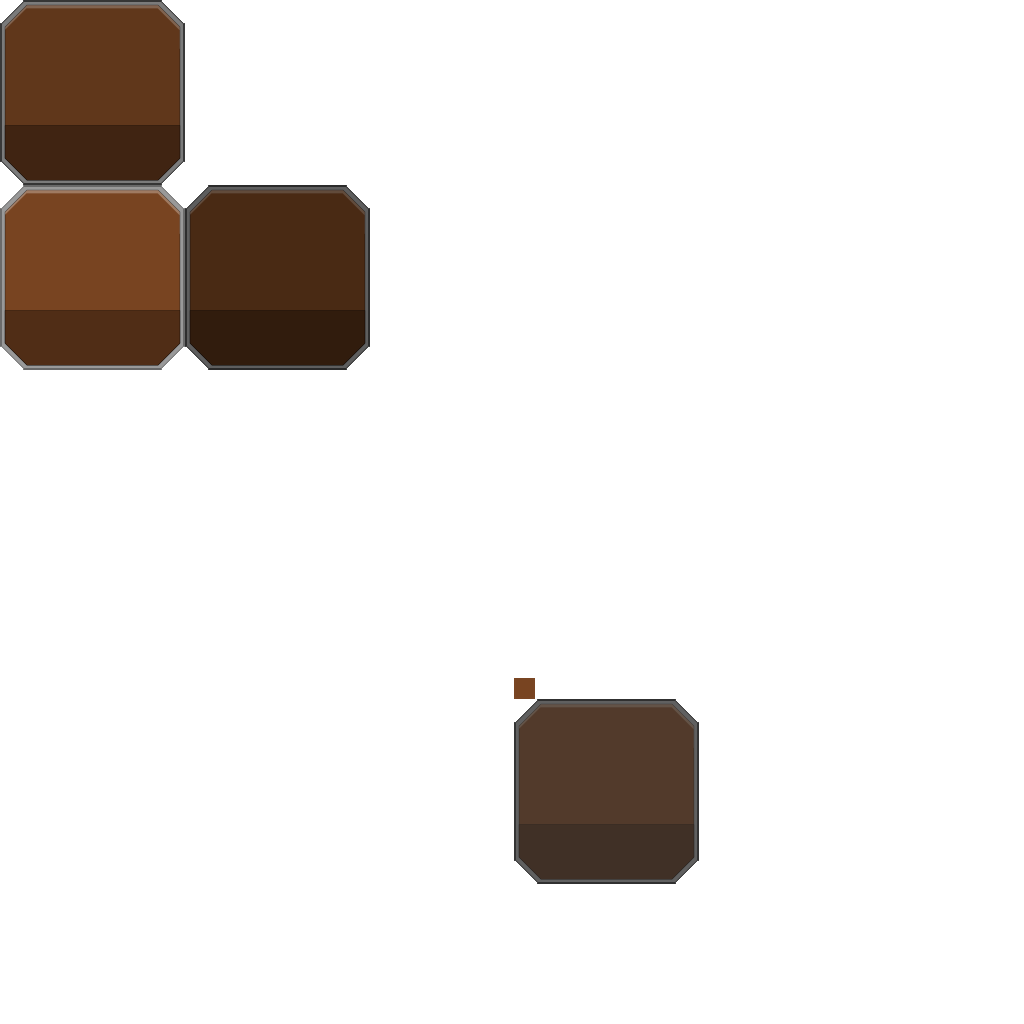
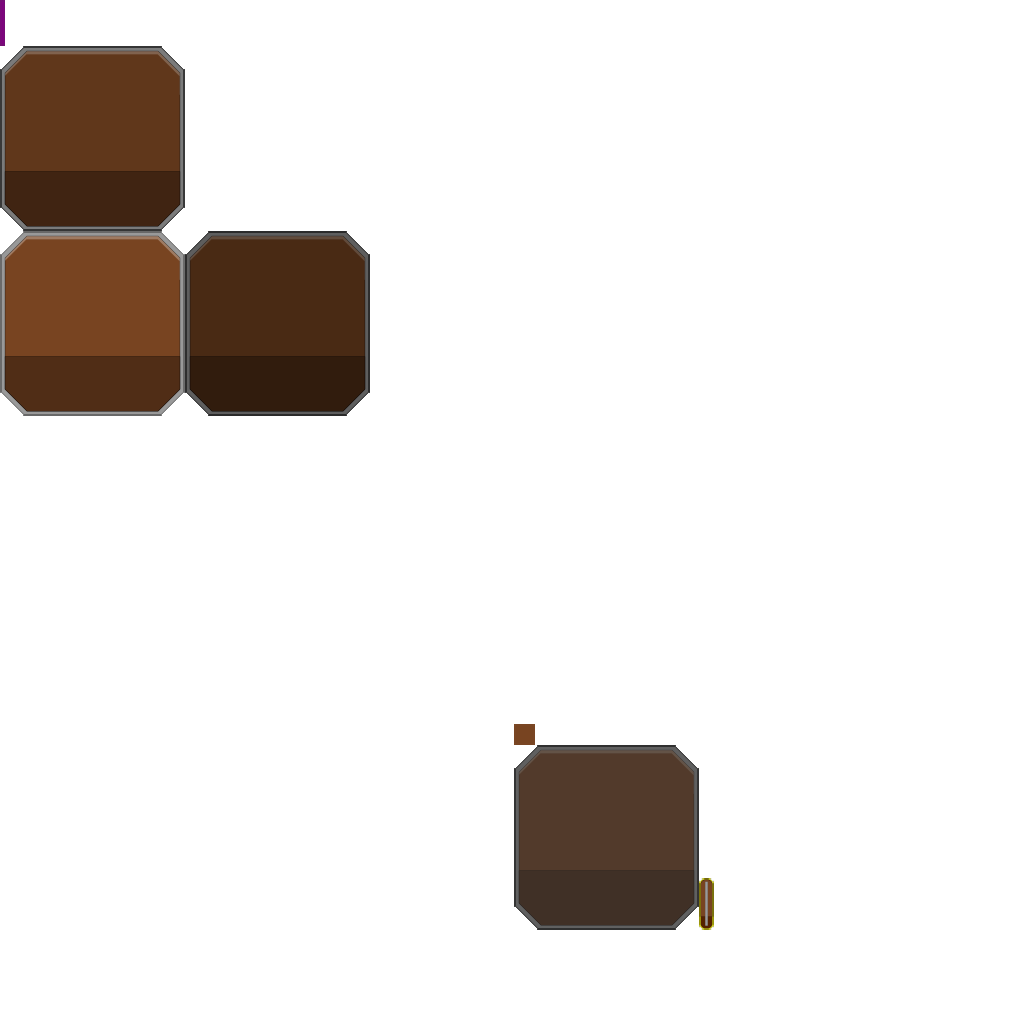
changed manabar skin and made his height adjustable

diff --git a/core/src/main/java/com/strategy_bit/chaos_brawl/player_input_output/views/GameHUD.java b/core/src/main/java/com/strategy_bit/chaos_brawl/player_input_output/views/GameHUD.java
@@ -12,11 +12,9 @@ import com.badlogic.gdx.graphics.g2d.TextureRegion;
 import com.badlogic.gdx.math.Vector2;
 import com.badlogic.gdx.math.Vector3;
 import com.badlogic.gdx.scenes.scene2d.InputEvent;
-import com.badlogic.gdx.scenes.scene2d.ui.ProgressBar;
 import com.badlogic.gdx.scenes.scene2d.ui.Table;
 import com.badlogic.gdx.scenes.scene2d.utils.ClickListener;
 import com.badlogic.gdx.scenes.scene2d.utils.Drawable;
-import com.badlogic.gdx.scenes.scene2d.utils.NinePatchDrawable;
 import com.badlogic.gdx.scenes.scene2d.utils.TextureRegionDrawable;
 import com.badlogic.gdx.utils.Array;
 import com.strategy_bit.chaos_brawl.config.WorldSettings;
@@ -60,7 +58,7 @@ public class GameHUD extends Table {
 
     private int nextUnitType;
     private Texture nonSpawnAreaTexture;
-    private ProgressBar manaBar;
+    private Manabar manaBar;
     private Array<BrawlButton> brawlButtons;
 
     private OrthographicCamera camera;
@@ -98,43 +96,39 @@ public class GameHUD extends Table {
         brawlButtons.add(btnUpgradeTower);
         setFillParent(true);
 
-        NinePatchDrawable resourceBarOuter = new NinePatchDrawable(assetManager.resourceSkinOuter);
-        NinePatchDrawable resourceBar = new NinePatchDrawable(assetManager.resourceSkinInner);
-        ProgressBar.ProgressBarStyle progressBarStyle = new ProgressBar.ProgressBarStyle(resourceBarOuter, new NinePatchDrawable(assetManager.resourceSkinMiddle));
-        progressBarStyle.knobBefore = resourceBar;
-        manaBar = new ProgressBar(0f, 100f, 0.1f, false, progressBarStyle);
-
+        manaBar = new Manabar(0f, 100f, 0.1f, false, AssetManager.getInstance().defaultSkin);
         manaBar.setValue(0);
         setBackground((Drawable) null);
 
         top();
         //add actors to UI
-        float height = Gdx.graphics.getHeight() / 8.5f;
-        float width = Gdx.graphics.getWidth()/5f;
-        add(manaBar).top().width(Gdx.graphics.getWidth() / 2f).height(Gdx.graphics.getHeight() / 9f);
-        row().height(7 * Gdx.graphics.getHeight() / 9f);
+        float buttonHeight = Gdx.graphics.getHeight() /7f;
+        float manaBarHeight = Gdx.graphics.getHeight() /8f;
+        float emptySpace = Gdx.graphics.getHeight() - (buttonHeight + manaBarHeight);
+
+        add(manaBar).top().width(Gdx.graphics.getWidth() / 2f).height(manaBarHeight);
+        row().height(emptySpace);
         add();
-        row().height(Gdx.graphics.getHeight() / 9f).width((float) Gdx.graphics.getWidth());
+        row().height(buttonHeight).width((float) Gdx.graphics.getWidth());
 
         // add own table for organizing buttons
         Table lowerUI = new Table(assetManager.defaultSkin);
         lowerUI.right();
         add(lowerUI).width((float) Gdx.graphics.getWidth());
-        lowerUI.add(btnNewUnit1).right().height(height).width(height);
+        lowerUI.add(btnNewUnit1).right().height(buttonHeight).width(buttonHeight);
+        lowerUI.add(btnNewUnit2).right().height(buttonHeight).width(buttonHeight);
+        lowerUI.add(btnNewUnit3).right().height(buttonHeight).width(buttonHeight);
 
-        lowerUI.add(btnNewUnit2).right().height(height).width(height);
-        lowerUI.add(btnNewUnit3).right().height(height).width(height);
 
-
-        lowerUI.add(btnUpgradeUnits).left().height(height).width(2f*height);
-        lowerUI.add(btnUpgradeTower).left().height(height).width(2f*height);
+        lowerUI.add(btnUpgradeUnits).left().height(buttonHeight).width(2f*buttonHeight);
+        lowerUI.add(btnUpgradeTower).left().height(buttonHeight).width(2f*buttonHeight);
         for (BrawlButton button :
                 brawlButtons) {
             button.addListener(listener);
-            button.setSizeImage(height,height, 0.7f);
+            button.setSizeImage(buttonHeight,buttonHeight, 0.7f);
         }
-        btnUpgradeTower.setSizeImage(2f*height,height,0.7f);
-        btnUpgradeUnits.setSizeImage(2f*height,height,0.7f);
+        btnUpgradeTower.setSizeImage(2f*buttonHeight,buttonHeight,0.7f);
+        btnUpgradeUnits.setSizeImage(2f*buttonHeight,buttonHeight,0.7f);
         initializeGameOverView();
     }
 

diff --git a/core/src/main/java/com/strategy_bit/chaos_brawl/player_input_output/views/Manabar.java b/core/src/main/java/com/strategy_bit/chaos_brawl/player_input_output/views/Manabar.java
@@ -1,0 +1,89 @@
+package com.strategy_bit.chaos_brawl.player_input_output.views;
+
+import com.badlogic.gdx.graphics.Color;
+import com.badlogic.gdx.graphics.g2d.Batch;
+import com.badlogic.gdx.scenes.scene2d.ui.ProgressBar;
+import com.badlogic.gdx.scenes.scene2d.ui.Skin;
+import com.badlogic.gdx.scenes.scene2d.utils.Drawable;
+
+/**
+ * @author AIsopp
+ * @version 1.0
+ * @since 14.06.2018
+ */
+public class Manabar extends ProgressBar {
+    private boolean disabled = false;
+    private boolean round;
+    private ProgressBarStyle style;
+
+    public Manabar(float min, float max, float stepSize, boolean vertical, Skin skin) {
+        super(min, max, stepSize, vertical, skin.get("default-" + (vertical ? "vertical" : "horizontal"), ProgressBarStyle.class));
+        this.round = true;
+        this.style = getStyle();
+    }
+
+    @Override
+    public void setDisabled(boolean disabled) {
+        this.disabled = disabled;
+    }
+
+    @Override
+    public void draw(Batch batch, float parentAlpha) {
+        ProgressBarStyle style = this.style;
+        boolean disabled = this.disabled;
+        final Drawable knob = getKnobDrawable();
+        final Drawable bg = (disabled && style.disabledBackground != null) ? style.disabledBackground : style.background;
+        final Drawable knobBefore = (disabled && style.disabledKnobBefore != null) ? style.disabledKnobBefore : style.knobBefore;
+
+        Color color = getColor();
+        float x = getX();
+        float y = getY();
+        float width = getWidth();
+        float height = getHeight();
+        float knobWidth = knob == null ? 0 : knob.getMinWidth();
+        float percent = getVisualPercent();
+        float position = getKnobPosition();
+
+        batch.setColor(color.r, color.g, color.b, color.a * parentAlpha);
+
+
+        float positionWidth = width;
+
+        float bgLeftWidth = 0;
+        if (bg != null) {
+            if (round)
+                bg.draw(batch, x, Math.round(y + (height - bg.getMinHeight()) * 0.5f), width, height);
+            else
+                bg.draw(batch, x, y + (height - bg.getMinHeight()) * 0.5f, width, height);
+            bgLeftWidth = bg.getLeftWidth();
+            positionWidth -= bgLeftWidth + bg.getRightWidth();
+        }
+
+        float knobWidthHalf = 0;
+        if (getMinValue() != getMaxValue()) {
+            if (knob == null) {
+                knobWidthHalf = knobBefore == null ? 0 : knobBefore.getMinWidth() * 0.5f;
+                position = (positionWidth - knobWidthHalf) * percent;
+                position = Math.min(positionWidth - knobWidthHalf, position);
+            } else {
+                knobWidthHalf = knobWidth * 0.5f;
+                position = (positionWidth - knobWidth) * percent;
+                position = Math.min(positionWidth - knobWidth, position) + bgLeftWidth;
+            }
+            position = Math.max(0, position);
+        }
+
+        if (knobBefore != null) {
+            float offset = 0;
+            if (bg != null) offset = bgLeftWidth;
+            if (round)
+                knobBefore.draw(batch, Math.round(x + offset), Math.round(y + (height - knobBefore.getMinHeight()) * 0.5f),
+                        Math.round(position + knobWidthHalf), height - (bg.getMinHeight() - knobBefore.getMinHeight()));
+            else
+                knobBefore.draw(batch, x + offset, y + (height - knobBefore.getMinHeight()) * 0.5f,
+                        position + knobWidthHalf, knobBefore.getMinHeight());
+        }
+    }
+
+
+}
